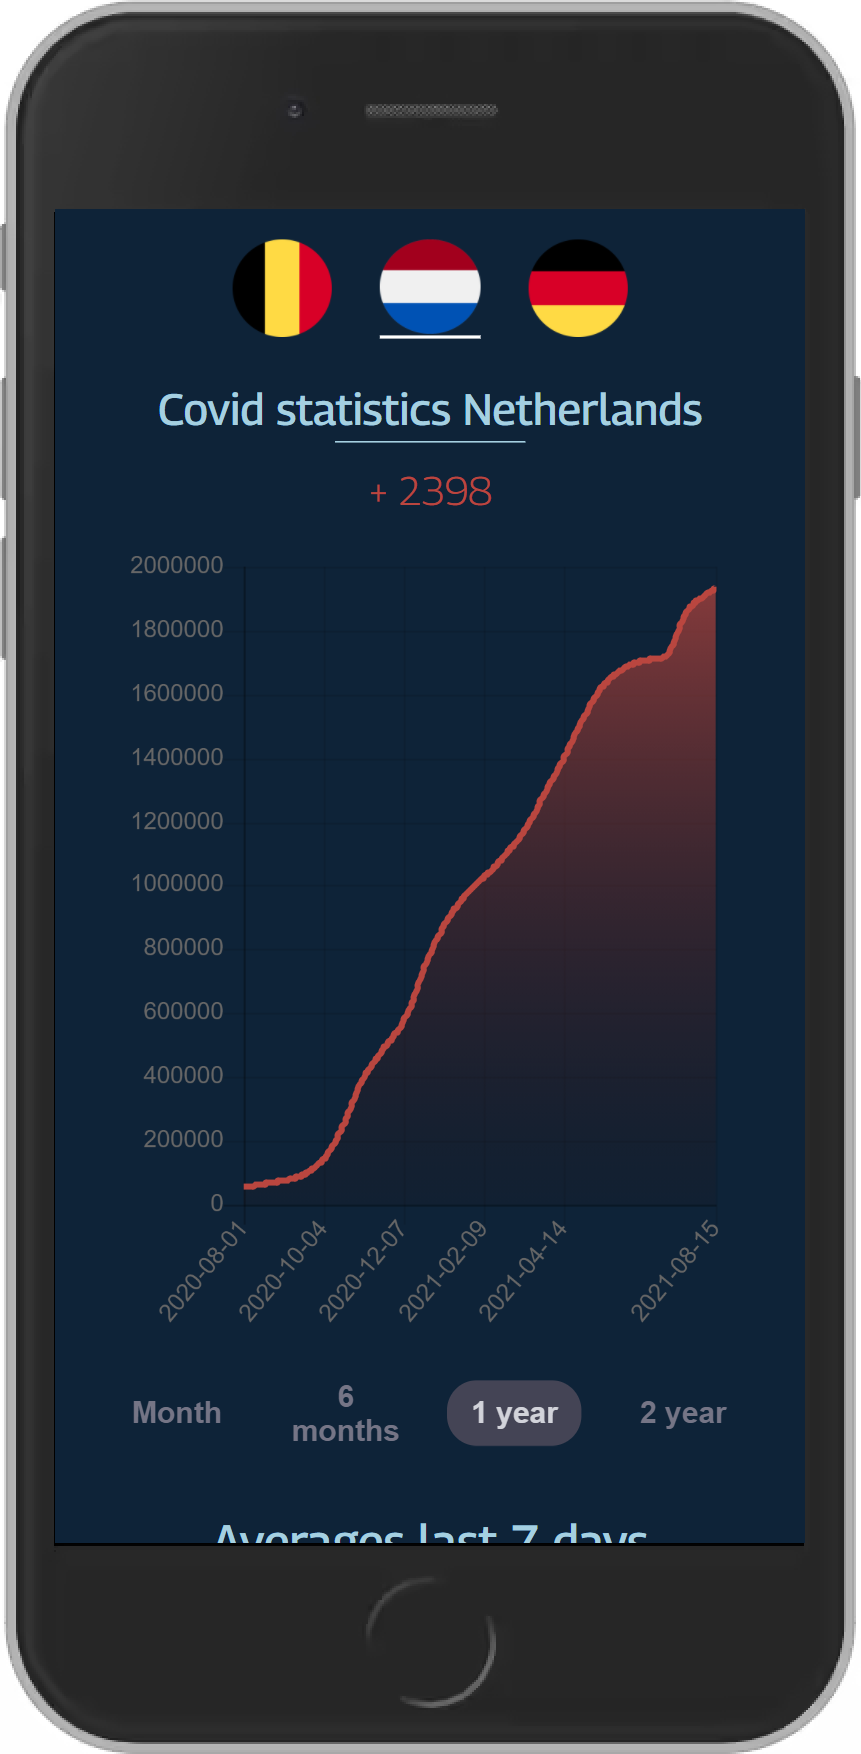
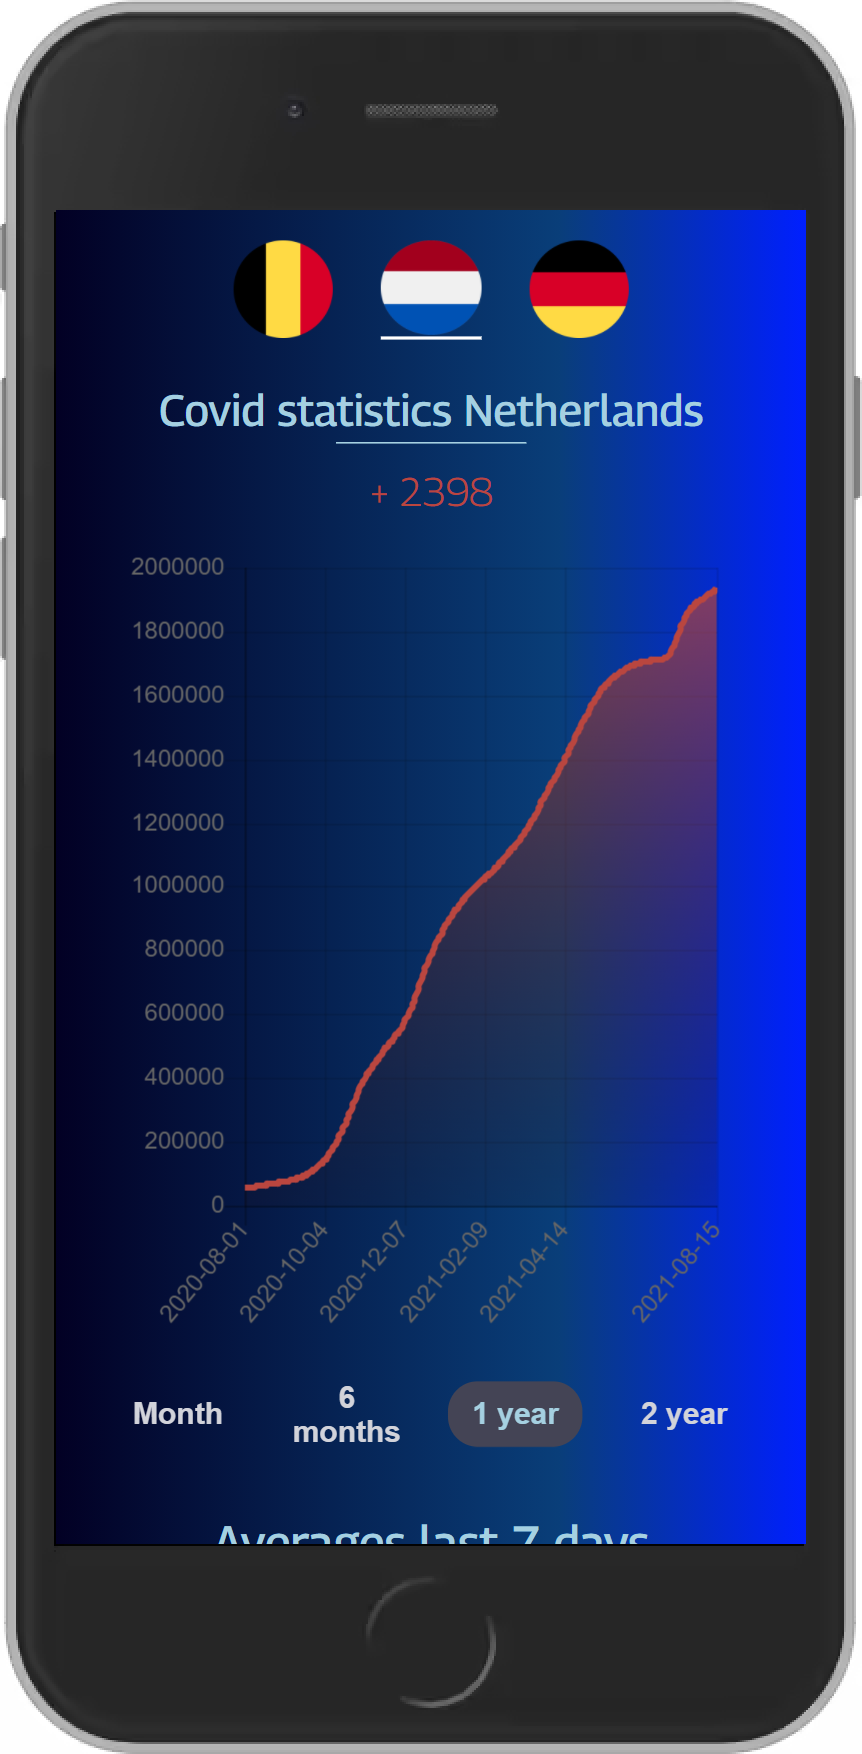
mockup aangepast

diff --git a/css/screen.css b/css/screen.css
@@ -1130,16 +1130,16 @@ No media query since this is the default in mobile first design
     -ms-transform: rotateX(20deg);
     transform: rotateX(20deg);
     background-color: var(--global-neutral-5-dark);
-    color: var(--global-neutral-color);
+    color: #a5d0e1;
     box-shadow: var(--shadow-button);
 }
 
 .c-link-cta:active {
     background-color: var(--global-neutral-5-dark);
-    color: var(--global-neutral-color);
+    color: #a5d0e1;
 }
 
 .is-selected {
     background-color: var(--global-neutral-5-dark);
-    color: var(--global-neutral-color);
+    color: #a5d0e1;
 }
